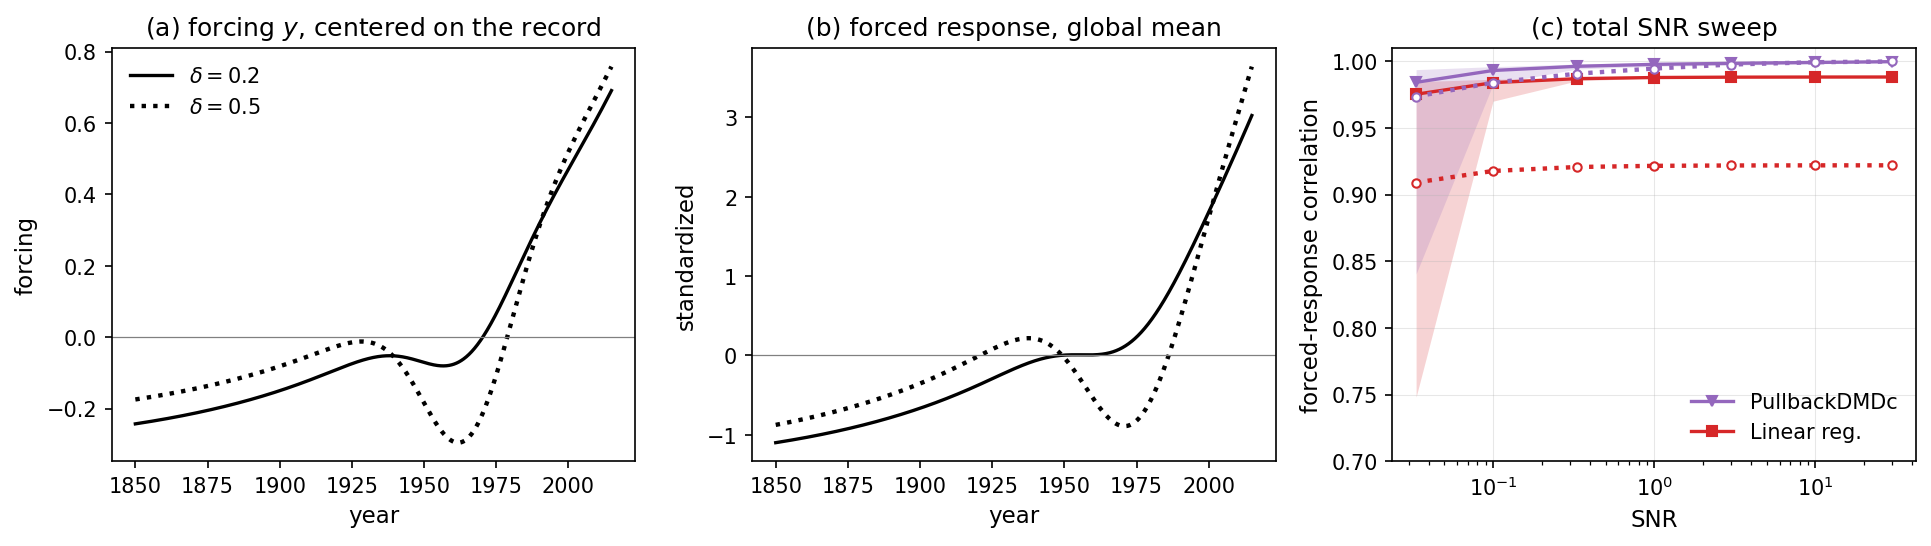
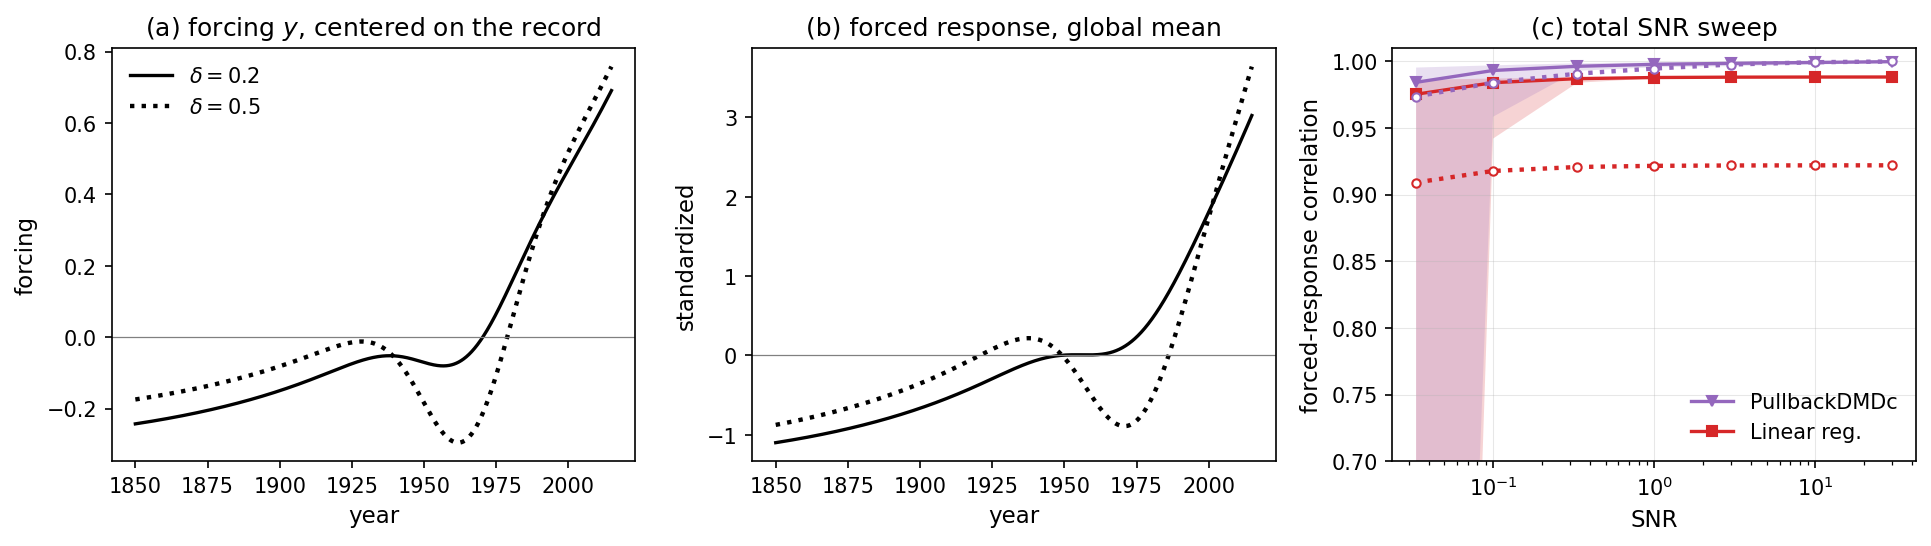
Updated figures

Changed region(s): [[0.7147, 0.1557, 0.8079, 0.8407]]

diff --git a/synthetic/plot_ablation_run_results.py b/synthetic/plot_ablation_run_results.py
@@ -2,7 +2,7 @@
 
     python plot_ablation_run_results.py                                   # dip depths 0.2 and 0.5, metric corr
 
-The runs are named by their dip depth; the first is the reference, drawn solid with its interquartile band, and the later
+The runs are named by their dip depth; the first is the reference, drawn solid with its 5th to 95th percentile band, and the later
 run is drawn as dotted medians over it. --metric is the forced-response score of the top row of the sweeps and of the
 phase diagrams: corr (default), rel_rmse or r2 (METRICS).
 
@@ -94,13 +94,13 @@ def default_level(study, cfg):
 
 
 def draw_run(ax, run, df, column, methods, truth, linestyle, lw, ms):
-    """One run in one panel. linestyle None draws the reference: solid medians over their interquartile bands; a linestyle
+    """One run in one panel. linestyle None draws the reference: solid medians over their 5th to 95th percentile bands; a linestyle
     draws a later run in it, wider medians with open circles. Returns the line of the true value (results column `truth`)."""
     for method in sorted((m for m in methods if m in run.methods), key=lambda m: m == "PullbackDMDc"):  # PullbackDMDc on top
         grouped = df[df.method == method].groupby("param_value")[column]
         median = grouped.median()
         if linestyle is None:
-            ax.fill_between(median.index, grouped.quantile(0.25), grouped.quantile(0.75), color=colors[method], alpha=0.2, linewidth=0)
+            ax.fill_between(median.index, grouped.quantile(0.16), grouped.quantile(0.84), color=colors[method], alpha=0.2, linewidth=0)
             ax.plot(median.index, median, color=colors[method], marker=method_markers[method], markersize=ms, linewidth=lw)
         else:
             ax.plot(median.index, median, color=colors[method], linestyle=linestyle, linewidth=lw + 0.5, marker="o",

diff --git a/synthetic/plot_generator_diagnostics.py b/synthetic/plot_generator_diagnostics.py
@@ -11,7 +11,8 @@ them and only draws. Delete the file to regenerate it.
     setup.pdf             (a) the slow and fast patterns with the uniform forcing pattern, (b) the forcing for each dip depth
     pullback_results.pdf  (a) true and estimated forced responses and slow internal variability, as standardized means over the
                           latitudes, (b) forced-response correlation of the fitted realizations (the metric of the ablations),
-                          (c) estimated and true decay times, (d) estimated and true slow-mode pattern (largest real eigenvalue)
+                          (c) decay times, the median and 5 to 95% range of the estimates and the true ones, (d) estimated and
+                          true slow-mode pattern (largest real eigenvalue)
 """
 
 import json
@@ -184,10 +185,10 @@ def draw_pullback(data, fig_dir, n_shown=N_SHOWN):
     ax2.text(0.0, 1.25, "(b)", transform=ax2.transAxes, fontsize=14, fontweight="bold")
 
     modes = np.arange(1, M + 1)
-    for m in range(n_members):
-        ax3.plot(modes, T_est[m], "o", color=ESTIMATE_COLOR, ms=3, alpha=0.5, label="estimated" if m == 0 else None)
-    ax3.plot(modes, np.nanmedian(T_est, axis=0), "o", color=MEDIAN_COLOR, ms=5, label="median")
-    ax3.plot(modes, T_true, "D", color=TRUE_COLOR, mfc="none", ms=7, label="true")
+    q16, median, q84 = np.nanpercentile(T_est, [16, 50, 84], axis=0)    # over the realizations, as the bands of the ablation sweeps
+    ax3.vlines(modes, q16, q84, color=ESTIMATE_COLOR, lw=6, alpha=0.6, label="68% range")
+    ax3.plot(modes, median, "o", color=MEDIAN_COLOR, ms=3, label="median")
+    ax3.plot(modes, T_true, "D", color=TRUE_COLOR, mfc="none", ms=5, label="true")
     ax3.set_yscale("log")
     ax3.set_xticks(modes[::2])
     ax3.set_xlabel("Mode (sorted by |eigenvalue|)")
